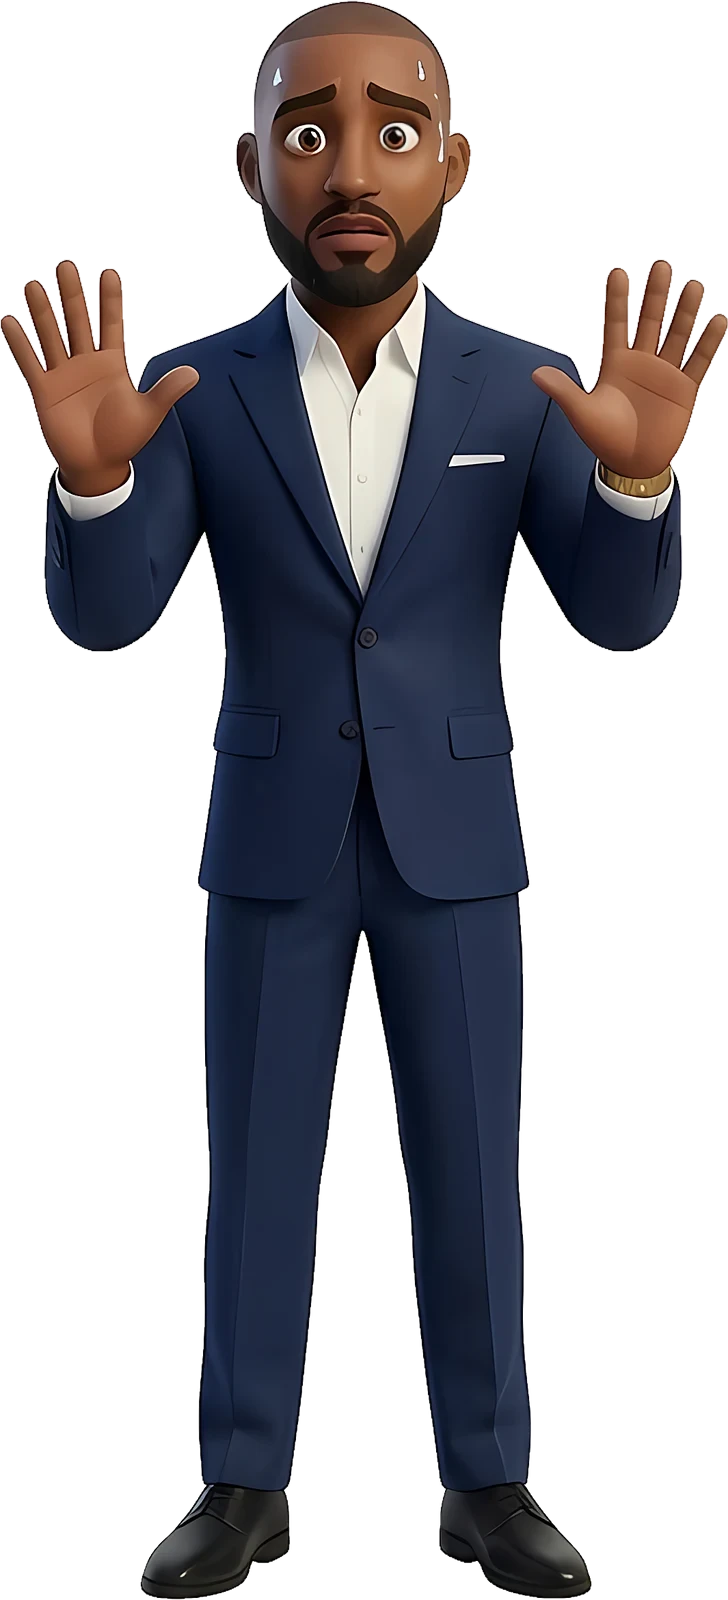
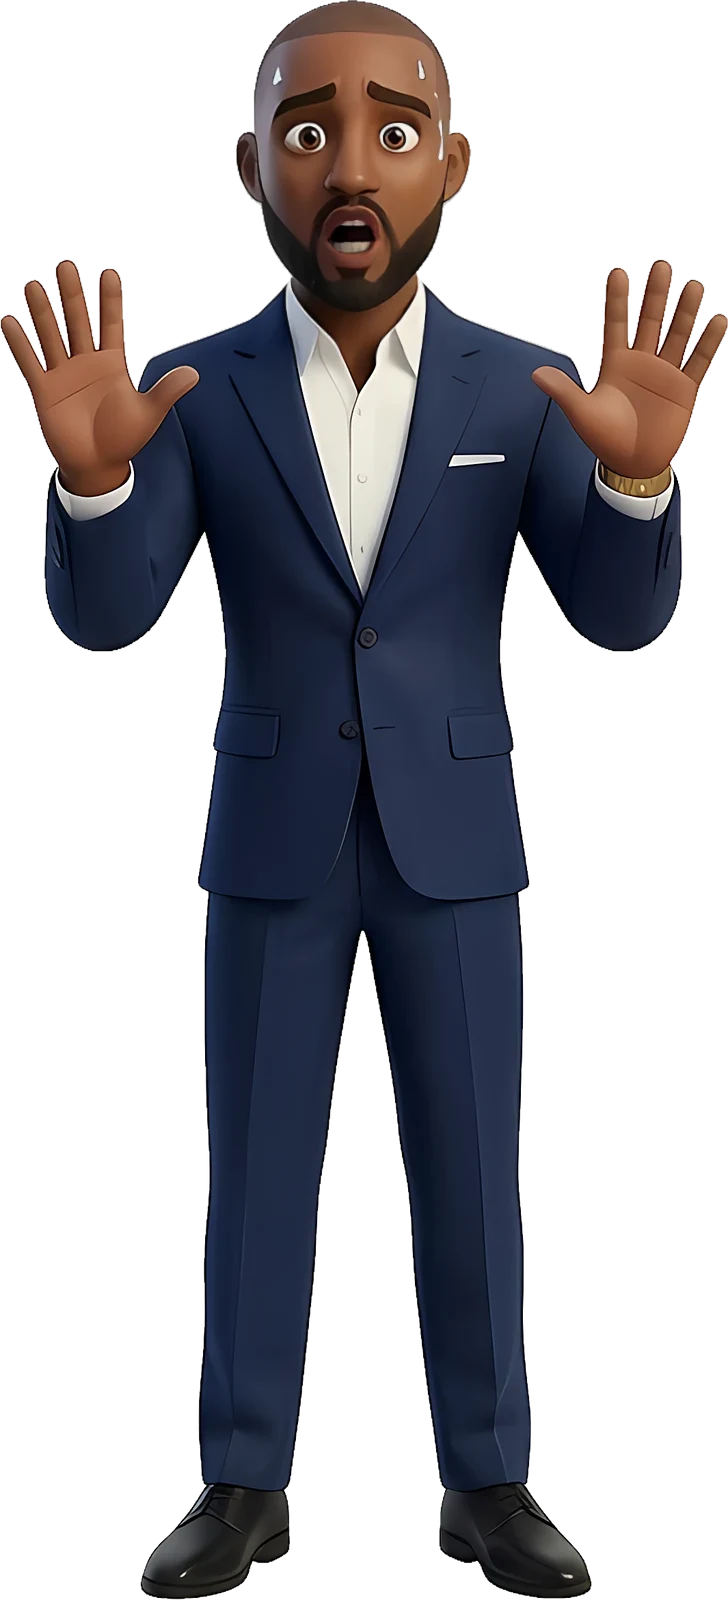
Ép. 16 : nouveau dialogue (Bakary riposte, Karim et le cadeau), Karim hors des plans de groupe, bouches plus ouvertes (Karim, Awa en bazin, Mimi)
Claude-Session: https://claude.ai/code/session_01TMGa197DNHV2kbcme1C2Mv

Changed region(s): [[0.3929, 0.0625, 0.6044, 0.1875], [0.6044, 0.0625, 0.6346, 0.125]]

diff --git a/studio/automouth.py b/studio/automouth.py
@@ -3,13 +3,16 @@ import json, os, subprocess, sys
 from PIL import Image
 A = os.path.join(os.path.dirname(os.path.abspath(__file__)), 'assets'); W = '/tmp/claude-0/automouth'; os.makedirs(W, exist_ok=True)
 cat = json.load(open(A + '/catalog.json')); jobs = []; regions = {}
+OUV = os.environ.get('STUDIO_BOUCHE', '0.2')   # ouverture de la bouche (barbe épaisse : plus grand)
+SEUL = set(filter(None, os.environ.get('STUDIO_POSES', '').split(',')))   # refaire seulement ces poses
 for k, p in cat['poses'].items():
-    if p['mouth'] or p['char'] in ('OBJET',) or '+' in p['char'] or p['posture'] in ('dos',) or 'cycle_marche' in ' '.join(p['tags']): continue
+    if SEUL and k not in SEUL: continue
+    if (p['mouth'] and not SEUL) or p['char'] in ('OBJET',) or '+' in p['char'] or p['posture'] in ('dos',) or 'cycle_marche' in ' '.join(p['tags']): continue
     im = Image.open(f'{A}/poses/{k}.webp').convert('RGBA'); w, h = im.size
     frac = {'pied': 0.42, 'buste': 0.75, 'visage': 1.0}.get(p['frame'], 0.5)
     box = (0, 0, w, int(h * frac)); regions[k] = box
     b = Image.new('RGBA', (box[2], box[3]), (200, 200, 200, 255)); b.alpha_composite(im.crop(box)); b.convert('RGB').save(f'{W}/{k}.png')
-    jobs.append(f'{W}/{k}_o.png|{W}/{k}.png|x|0.2|0|0|0|-0.25|0|0|0|0|0|0|0')
+    jobs.append(f'{W}/{k}_o.png|{W}/{k}.png|x|{OUV}|0|0|0|-0.25|0|0|0|0|0|0|0')
 open(W + '/jobs.txt', 'w').write('\n'.join(jobs) + '\n'); json.dump(regions, open(W + '/regions.json', 'w'))
 print(len(jobs), 'poses à traiter', flush=True)
 subprocess.run([sys.executable, os.environ.get('STUDIO_LIVEPORTRAIT', os.path.join(os.path.dirname(os.path.abspath(__file__)), 'lp', 'lpgen.py')), W + '/jobs.txt'])
